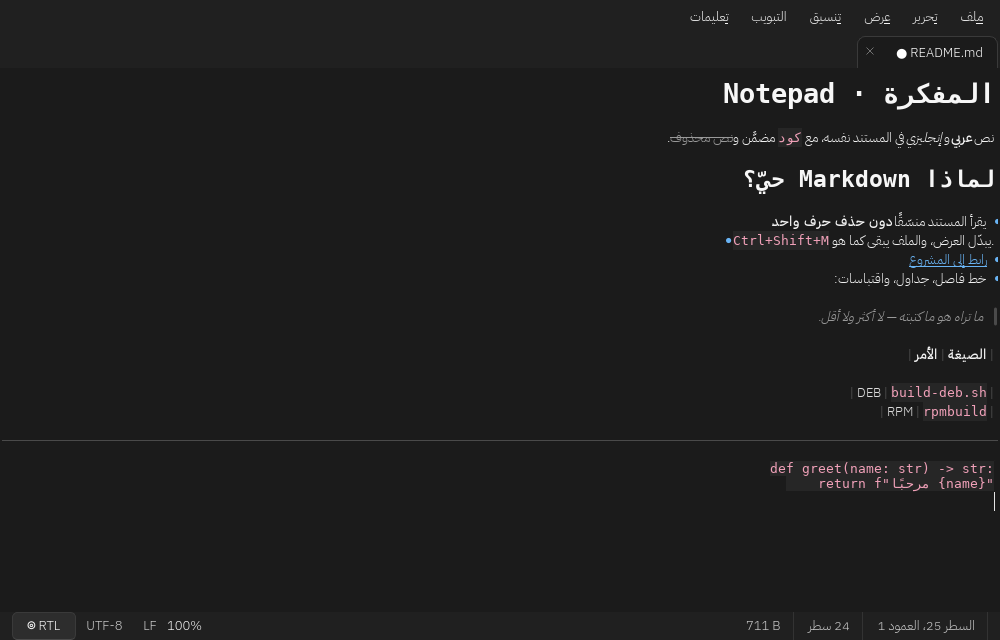
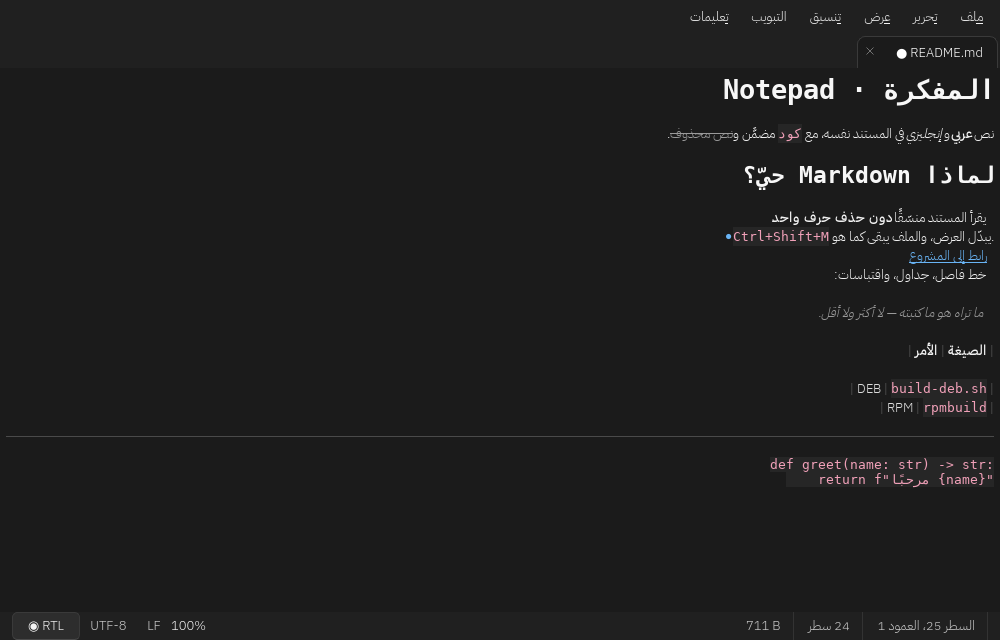
fix: RTL text margin and the status-bar direction glyph
Qt always adds the document margin on the left, so right-to-left text sat
flush against the right edge. The margin is now applied as a viewport
margin and mirrored for RTL, and the "automatic" chip uses a round mark
that no longer reads as "@" at 12 px. New regression test for the chip.

diff --git a/src/mufakkira/views/editor_view.py b/src/mufakkira/views/editor_view.py
@@ -60,6 +60,8 @@ DEFAULT_FONT_SIZE = 13
 #: In *auto* mode alignment is resolved per paragraph; stop after this many
 #: blocks so that a 300 MB preview never pays for a full document walk.
 AUTO_DETECT_BLOCKS = 200
+#: Breathing room between the text and the viewport edge, in pixels.
+TEXT_MARGIN = 4
 
 # Hardware scan codes for the modifier keys.
 #   Linux/X11 and Wayland (evdev + 8)      : LCtrl 37, LShift 50, RShift 62, RCtrl 105
@@ -109,6 +111,10 @@ class EditorView(QPlainTextEdit):
             self.setFont(font)
 
         self.setUndoRedoEnabled(True)
+        # The document margin is direction-agnostic in Qt (it is always added
+        # on the left), which leaves RTL text glued to the right edge.  The
+        # margin is therefore applied as a *viewport* margin, mirrored for RTL.
+        self.document().setDocumentMargin(0)
         self.setLineWrapMode(QPlainTextEdit.LineWrapMode.WidgetWidth)
         self.setTabStopDistance(self.fontMetrics().horizontalAdvance(" ") * self._tab_width)
         self.setMouseTracking(True)
@@ -774,11 +780,11 @@ class EditorView(QPlainTextEdit):
         return 14 + self.fontMetrics().horizontalAdvance("9") * digits
 
     def _update_gutter_width(self, _=0) -> None:
-        width = self.gutter_width()
+        start = self.gutter_width() + TEXT_MARGIN
         if self.layoutDirection() == Qt.LayoutDirection.RightToLeft:
-            self.setViewportMargins(0, 0, width, 0)
+            self.setViewportMargins(TEXT_MARGIN, 0, start, 0)
         else:
-            self.setViewportMargins(width, 0, 0, 0)
+            self.setViewportMargins(start, 0, TEXT_MARGIN, 0)
 
     def _update_gutter(self, rect: QRect, dy: int) -> None:
         gutter = self._gutter

diff --git a/tests/test_widgets.py b/tests/test_widgets.py
@@ -130,3 +130,17 @@ def test_progress_dialog_counts_bytes(qapp):
     assert dialog.value() == 1024 * 1024
     assert dialog.maximum() == 4 * 1024 * 1024
     dialog.close()
+
+
+def test_direction_chip_icon(qapp):
+    """The chip must never show an ambiguous glyph such as "@"."""
+    from mufakkira.core.text_direction import AUTO, LTR, RTL
+    from mufakkira.views import status_bar_widget
+
+    widget = status_bar_widget.StatusBarWidget()
+    widget.set_direction(AUTO, resolved=LTR)
+    assert "@" not in widget._direction.text()
+    widget.set_direction(RTL)
+    assert widget._direction.text() == f"{status_bar_widget._DIRECTION_ICONS[RTL]} RTL"
+    widget.set_direction(AUTO, resolved=RTL)
+    assert "RTL" in widget._direction.text()

diff --git a/src/mufakkira/views/status_bar_widget.py b/src/mufakkira/views/status_bar_widget.py
@@ -16,7 +16,9 @@ from PySide6.QtWidgets import QFrame, QHBoxLayout, QLabel, QPushButton, QSizePol
 from mufakkira.core.i18n import tr
 from mufakkira.core.text_direction import AUTO, LTR, RTL
 
-_DIRECTION_ICONS = {AUTO: "⌾", LTR: "→", RTL: "←"}
+#: A round glyph for "automatic" keeps the chip readable in both directions
+#: (the old target-like mark read as "@" at 12 px).
+_DIRECTION_ICONS = {AUTO: "◉", LTR: "→", RTL: "←"}
 _DIRECTION_ORDER = (AUTO, RTL, LTR)
 
 

diff --git a/docs/SWOT.md b/docs/SWOT.md
@@ -29,7 +29,7 @@
 | W4 | `Ctrl+Shift` يعتمد على `nativeScanCode` وحده | 62 = RShift على X11 وRCtrl على macOS | ✅ `event.key()` للهوية + scan code للجهة |
 | W5 | قراءة الملف كاملًا في الذاكرة ثم `setPlainText` | تجمّد الواجهة وتضخّم الذاكرة على الملفات الكبيرة | ✅ دفعات 1 MiB + خيوط + تقدّم + معاينة |
 | W6 | `open(path,'w').write(...)` مباشر | ملف تالف عند انقطاع الكهرباء | ✅ ملف مؤقت + `os.replace` |
-| W7 | صفر اختبارات، صفر CI | كل تعديل مخاطرة | ✅ 273 اختبارًا، منها 51 لعرض Markdown الحيّ |
+| W7 | صفر اختبارات، صفر CI | كل تعديل مخاطرة | ✅ 274 اختبارًا، منها 51 لعرض Markdown الحيّ |
 | W8 | نصوص الواجهة مكتوبة داخل الشيفرة | استحالة الترجمة | ✅ 140 مفتاحًا × 10 لغات |
 | W9 | اسم المطوّر مكرّر في العنوان والملفات | يخالف طلب المستخدم | ✅ في نافذة "حول" فقط |
 | W10 | لا إعدادات محفوظة إلا بأسماء ملفات الجلسة | يفقد المستخدم تفضيلاته | ✅ `~/.config/Mufakkira/settings.json` |
@@ -66,7 +66,7 @@
 1. **✅ الاتجاه** — إزالة الفرض العالمي، كشف تلقائي، إيعاز Ctrl+Shift موثوق،
    ثلاث نقاط تحكّم (اختصار/قائمة/شريط حالة).
 2. **✅ الملفات الكبيرة** — خيوط خلفية، دفعات، تقدّم، إلغاء، حفظ ذرّي، وضع معاينة.
-3. **✅ الاختبارات** — 273 اختبارًا: للمنطق الخالص، وللتحكم والواجهة، و51 لعرض Markdown الحيّ، و17 لضمانات المشروع.
+3. **✅ الاختبارات** — 274 اختبارًا: للمنطق الخالص، وللتحكم والواجهة، و51 لعرض Markdown الحيّ، و17 لضمانات المشروع.
 4. **✅ اللغات والخطوط** — عشر لغات، حزمة خطوط لكل لغة، ترجمة كاملة.
 5. **✅ التغليف** — خمسة مسارات تثبيت، وسكربت بناء واحد.
 6. **✅ أدوات الكتابة والتلوين** — إقران، إزاحة، إكمال كلمات، وتلوين اختياري.
@@ -81,7 +81,7 @@
 |--------|-----|-------|
 | عدد الملفات | 1 سكربت مولّد | 33 وحدة + 12 ملف اختبارات + 6 ملف تغليف |
 | أسطر الشيفرة | 1,672 في ملف | نحو 6,960 موزّعة على طبقات |
-| اختبارات | 0 | 273 |
+| اختبارات | 0 | 274 |
 | لغات الواجهة | 2 (عربي/إنجليزي مضمّنة) | 10 |
 | أكبر ملف يُفتح دون تجميد | يعتمد على الذاكرة | 512 MB (معاينة) / غير محدود بالتدفّق |
 | زمن فتح ملف 10 MB | تجميد الواجهة ثوانٍ | خلفية + شريط تقدّم |

diff --git a/README.md b/README.md
@@ -204,7 +204,7 @@ notepad            # أو: mufakkira
 ```bash
 pip install -e ".[dev]"
 python -m mufakkira
-pytest -q                      # 273 اختبارًا
+pytest -q                      # 274 اختبارًا
 ruff check src tests tools
 ```
 
